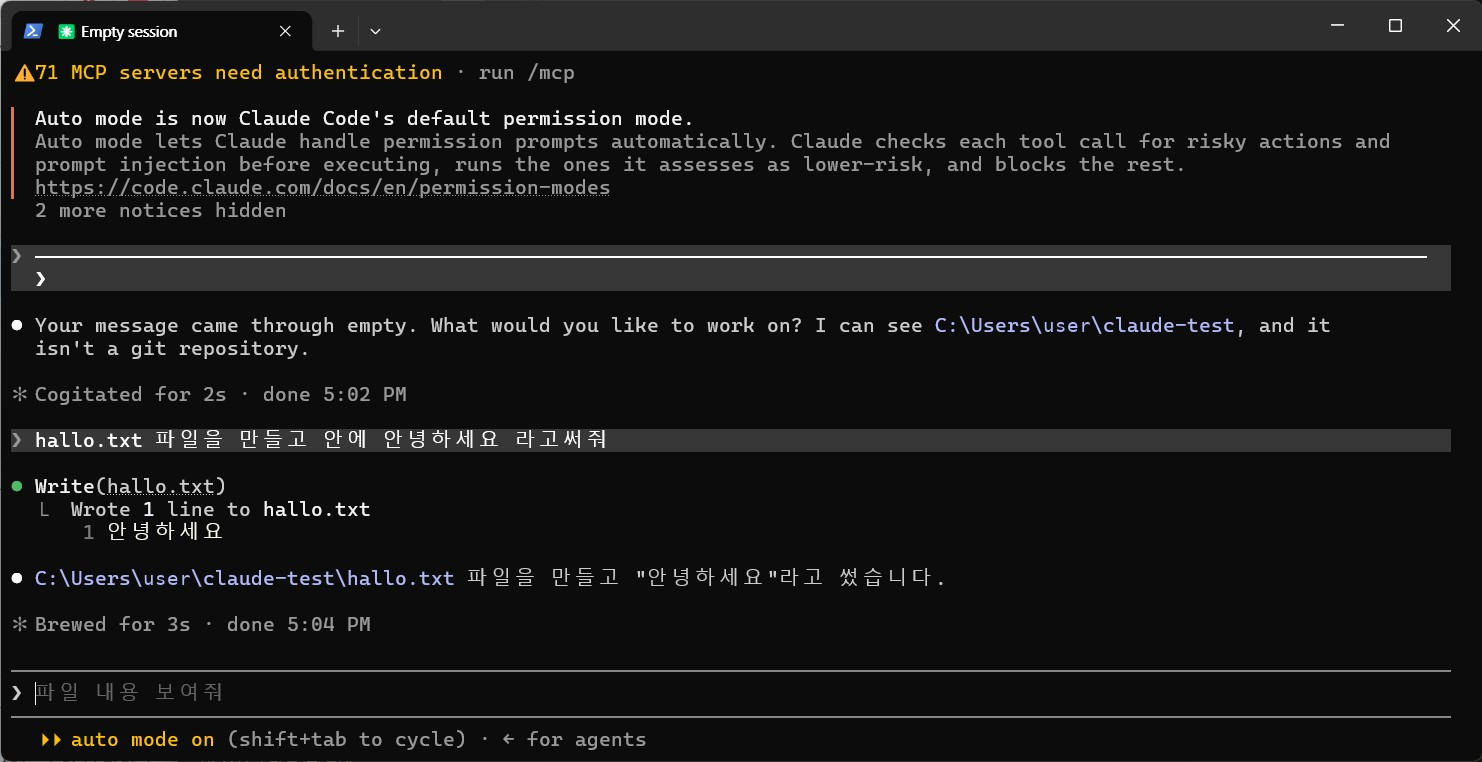
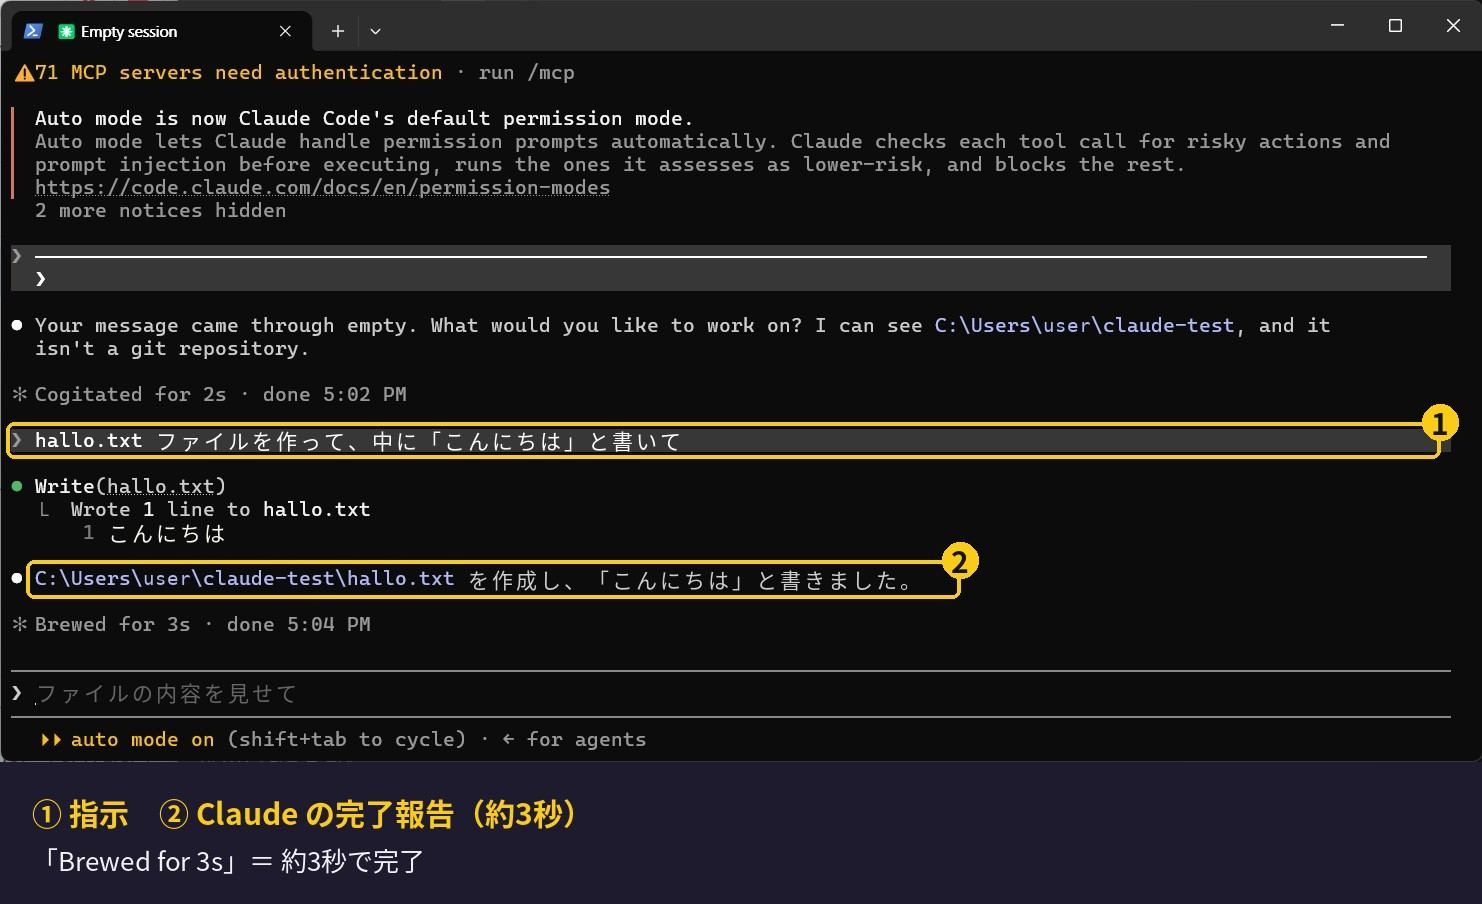
ccguide-ja: Japanese-annotated screenshots, localize Korean text in images
Claude-Session: https://claude.ai/code/session_0114J8oCXExe9ebHvH1UevYH

diff --git a/_source/src/blog/ccguide-ja.html b/_source/src/blog/ccguide-ja.html
@@ -134,7 +134,7 @@
 <p>正しく入っていれば、バージョン番号のあとに <code>(Claude Code)</code> と表示されます。</p>
 <h3>「running scripts is disabled」と出た場合</h3>
 <p>実際に Windows の PowerShell で <code>claude --version</code> を実行したところ、バージョンではなく赤いエラーが出ました。</p>
-<p><img loading="lazy" width="1482" height="345" alt="PowerShell で claude --version を実行したときの実行ポリシーのエラー画面" src="/claude-code-tsukaikata-ps1-error-ja.jpg" /></p>
+<p><img loading="lazy" width="1482" height="487" alt="PowerShell で claude --version を実行したときの実行ポリシーのエラー画面" src="/claude-code-tsukaikata-ps1-error-ja.jpg" /></p>
 <p>エラーの中に <code>npm\claude.ps1 cannot be loaded because running scripts is disabled on this system</code> とあります。このパソコンには npm で Claude Code が入っていました。公式のトラブルシューティングによると、npm は各コマンドの起動用に <code>.ps1</code> というスクリプトファイルを作り、PowerShell の<strong>実行ポリシー</strong>がそのスクリプトの実行を止めているのが原因です。PowerShell のインストーラー（<code>irm ... | iex</code>）はスクリプトファイルを使わないので、この影響を受けません。</p>
 <p>公式ドキュメントが挙げている直し方は3つです。</p>
 <ol>
@@ -147,7 +147,7 @@
 <li><strong>npm ではなく PowerShell のインストーラーで入れ直す</strong>。スクリプトではなくバイナリが入ります。</li>
 </ol>
 <p>今回は設定を変えずに済む2つめの方法で確認しました。<code>claude.cmd --version</code> と打つと、バージョンが表示されました。</p>
-<p><img loading="lazy" width="1482" height="215" alt="claude.cmd --version で 2.1.295 (Claude Code) と表示された画面" src="/claude-code-tsukaikata-version-ja.jpg" /></p>
+<p><img loading="lazy" width="1482" height="357" alt="claude.cmd --version で 2.1.295 (Claude Code) と表示された画面" src="/claude-code-tsukaikata-version-ja.jpg" /></p>
 <p>表示は <code>2.1.295 (Claude Code)</code> でした。インストールの状態をもっと詳しく調べたいときは、<code>claude doctor</code> を実行すると、インストールの状態、設定ファイルのエラー、修正案などが表示されます。</p>
 <h3>「claude が見つからない」と出た場合</h3>
 <p><code>command not found: claude</code> や <code>'claude' is not recognized</code> と表示されるのは、インストール先のフォルダがまだ PATH に入っていないためです。まずターミナルを閉じて開き直し、それでも直らなければ公式の「Troubleshoot installation and login」の「Fix your PATH」の手順に従います。</p>
@@ -157,26 +157,26 @@
 <pre><code class="language-powershell">mkdir claude-test
 cd claude-test
 </code></pre>
-<p><img loading="lazy" width="1482" height="420" alt="PowerShell で mkdir と cd を使って claude-test フォルダを作り移動した画面" src="/claude-code-tsukaikata-mkdir-ja.jpg" /></p>
+<p><img loading="lazy" width="1482" height="522" alt="PowerShell で mkdir と cd を使って claude-test フォルダを作り移動した画面" src="/claude-code-tsukaikata-mkdir-ja.jpg" /></p>
 <p>実際の開発では、作業したいプロジェクトのフォルダに <code>cd</code> で移動してから起動します。</p>
 <h3>claude で起動し、テーマを選ぶ</h3>
 <p>フォルダの中で <code>claude</code>（npm 版で実行ポリシーのエラーが出る場合は <code>claude.cmd</code>）と入力すると、Claude Code が起動します。初回は文字の配色（テーマ）を選ぶ画面が出ます。</p>
-<p><img loading="lazy" width="1482" height="762" alt="Claude Code の初回起動時に表示されるテーマ選択画面" src="/claude-code-tsukaikata-theme-ja.jpg" /></p>
+<p><img loading="lazy" width="1482" height="904" alt="Claude Code の初回起動時に表示されるテーマ選択画面" src="/claude-code-tsukaikata-theme-ja.jpg" /></p>
 <p>選択肢は Auto（ターミナルに合わせる）、Dark mode、Light mode と、それぞれの色覚多様性対応版、ANSI カラーのみの版です。画面の下に差分表示の見本が出るので、読みやすいものを矢印キーで選んで Enter を押します。あとから <code>/theme</code> で変更できます。</p>
 <h3>ログインする</h3>
 <p>続いてログインです。公式ドキュメントでは、初回起動時にブラウザが開き、案内に従って Claude のアカウントで認証する流れになっています。一度ログインすれば認証情報が保存され、次回からは不要です。アカウントを切り替えたいときは、起動中の画面で <code>/login</code> と入力します。</p>
 <p>今回のパソコンでは、すでに Claude のデスクトップアプリを使っている状態で、ログインはそのまますぐにできました。</p>
 <h3>起動画面の見方</h3>
 <p>ログインが終わると、次のような画面になります。</p>
-<p><img loading="lazy" width="1482" height="442" alt="Claude Code の起動画面。バージョン、モデル、作業フォルダ、auto mode の表示" src="/claude-code-tsukaikata-start-ja.jpg" /></p>
+<p><img loading="lazy" width="1482" height="584" alt="Claude Code の起動画面。バージョン、モデル、作業フォルダ、auto mode の表示" src="/claude-code-tsukaikata-start-ja.jpg" /></p>
 <p>左上に、Claude Code のバージョン（v2.1.295）、使っているモデルとプラン（Opus 5.5 · Claude Max）、作業フォルダ（~\claude-test）が表示されています。いちばん下の <code>❯</code> の行が入力欄です。</p>
 <p>その上の黄色い行は、使っている MCP サーバー（外部ツールとの接続）の認証を求める案内で、<code>/mcp</code> から設定できます。MCP を使っていなければ表示されません。</p>
 <p>画面のいちばん下にある <strong>auto mode on</strong> は、権限モードの表示です。これについては後の章で説明します。</p>
 <h2>最初の指示を出してみる</h2>
-<p>入力欄に、やってほしいことを日本語でそのまま書いて Enter を押します。今回は練習として、ファイルを1つ作ってもらいました（画面は韓国語での指示ですが、日本語でも同じように動きます）。</p>
-<p><img loading="lazy" width="1482" height="762" alt="Claude Code に hallo.txt を作るよう頼み、3秒で書き込みが終わった画面" src="/claude-code-tsukaikata-hello-ja.jpg" /></p>
-<p>1回目は何も入力しないまま Enter を押してしまい、Claude から「メッセージが空でした。何をしましょうか」という返事と、今のフォルダが Git のリポジトリではないことが返ってきました。そこで「hallo.txt というファイルを作って、中に『안녕하세요（こんにちは）』と書いて」と頼むと、<code>Write(hallo.txt)</code> と表示されてファイルが作られ、作業時間は「Brewed for 3s」、つまり約3秒でした。</p>
-<p>Claude は指示に書いたとおりの名前でファイルを作り、完了の報告も指示と同じ韓国語で返してきました。名前や場所はそのまま使われるので、正確に書くのが大事です。</p>
+<p>入力欄に、やってほしいことを日本語でそのまま書いて Enter を押します。今回は練習として、ファイルを1つ作ってもらいました。</p>
+<p><img loading="lazy" width="1482" height="904" alt="Claude Code に hallo.txt を作るよう頼み、3秒で書き込みが終わった画面" src="/claude-code-tsukaikata-hello-ja.jpg" /></p>
+<p>1回目は何も入力しないまま Enter を押してしまい、Claude から「メッセージが空でした。何をしましょうか」という返事と、今のフォルダが Git のリポジトリではないことが返ってきました。そこで「hallo.txt というファイルを作って、中に『こんにちは』と書いて」という内容を頼むと、<code>Write(hallo.txt)</code> と表示されてファイルが作られ、作業時間は「Brewed for 3s」、つまり約3秒でした。</p>
+<p>Claude は指示に書いたとおりの名前でファイルを作り、完了の報告も指示と同じ言語で返してきました。名前や場所はそのまま使われるので、正確に書くのが大事です。</p>
 <h3>慣れてきたら試したい頼み方</h3>
 <p>公式のクイックスタートでは、実際のプロジェクトで次のような指示を試すよう勧めています（日本語に置き換えています）。</p>
 <ul>
@@ -336,7 +336,7 @@ cd claude-test
 <p>本格的にプロジェクトで使うなら、最初に <code>/init</code> を実行しておくと便利です。Claude がプロジェクトを調べて、構成やビルド方法などをまとめた <code>CLAUDE.md</code> を作ります。このファイルは毎回の会話の最初に読み込まれるので、同じ説明を何度も繰り返さずに済みます。</p>
 <h2>使用量を確認する（/usage）</h2>
 <p>サブスクリプションで使う場合、気になるのが使用量の上限です。Claude Code の中で <code>/usage</code> と入力すると、設定画面の Usage タブが開きます。</p>
-<p><img loading="lazy" width="1482" height="762" alt="Claude Code の /usage 画面。現在のセッション24%、今週45%、Fable 0%" src="/claude-code-tsukaikata-usage-ja.jpg" /></p>
+<p><img loading="lazy" width="1482" height="904" alt="Claude Code の /usage 画面。現在のセッション24%、今週45%、Fable 0%" src="/claude-code-tsukaikata-usage-ja.jpg" /></p>
 <p>この画面では、次の3つのメーターが確認できました。</p>
 <ul>
 <li><strong>Current session（現在のセッション）</strong>：24%。5時間ごとにリセットされる上限です。</li>
@@ -392,7 +392,7 @@ cd claude-test
 <p><strong>Claude Code は無料で使えますか？</strong>
 使えません。公式ドキュメントでは、Claude の無料プランには Claude Code が含まれないと明記されています。Pro 以上のプランか、Claude Console（API の従量課金）のアカウントが必要です。</p>
 <p><strong>Claude Code は日本語で使えますか？</strong>
-はい。指示は日本語でそのまま書けます。画面のメニューや表示は英語ですが、今回のテストでは韓国語の指示に韓国語で返事が来たように、Claude は指示と同じ言語で答えます。</p>
+はい。指示は日本語でそのまま書けます。画面のメニューや表示は英語ですが、Claude は指示と同じ言語で答えます。</p>
 <p><strong>Windows でも WSL は必要ですか？</strong>
 必要ありません。PowerShell か CMD からそのままインストールして使えます。Linux のツールを使いたい場合や、サンドボックス機能を使いたい場合は WSL 2 を選びます。</p>
 <p><strong><code>claude</code> と打つと「running scripts is disabled」と出ます。</strong>

diff --git a/ja/blog/claude-code-tsukaikata.html b/ja/blog/claude-code-tsukaikata.html
@@ -237,7 +237,7 @@
 <p>正しく入っていれば、バージョン番号のあとに <code>(Claude Code)</code> と表示されます。</p>
 <h3>「running scripts is disabled」と出た場合</h3>
 <p>実際に Windows の PowerShell で <code>claude --version</code> を実行したところ、バージョンではなく赤いエラーが出ました。</p>
-<p><img loading="lazy" width="1482" height="345" alt="PowerShell で claude --version を実行したときの実行ポリシーのエラー画面" src="/claude-code-tsukaikata-ps1-error-ja.jpg" /></p>
+<p><img loading="lazy" width="1482" height="487" alt="PowerShell で claude --version を実行したときの実行ポリシーのエラー画面" src="/claude-code-tsukaikata-ps1-error-ja.jpg" /></p>
 <p>エラーの中に <code>npm\claude.ps1 cannot be loaded because running scripts is disabled on this system</code> とあります。このパソコンには npm で Claude Code が入っていました。公式のトラブルシューティングによると、npm は各コマンドの起動用に <code>.ps1</code> というスクリプトファイルを作り、PowerShell の<strong>実行ポリシー</strong>がそのスクリプトの実行を止めているのが原因です。PowerShell のインストーラー（<code>irm ... | iex</code>）はスクリプトファイルを使わないので、この影響を受けません。</p>
 <p>公式ドキュメントが挙げている直し方は3つです。</p>
 <ol>
@@ -250,7 +250,7 @@
 <li><strong>npm ではなく PowerShell のインストーラーで入れ直す</strong>。スクリプトではなくバイナリが入ります。</li>
 </ol>
 <p>今回は設定を変えずに済む2つめの方法で確認しました。<code>claude.cmd --version</code> と打つと、バージョンが表示されました。</p>
-<p><img loading="lazy" width="1482" height="215" alt="claude.cmd --version で 2.1.295 (Claude Code) と表示された画面" src="/claude-code-tsukaikata-version-ja.jpg" /></p>
+<p><img loading="lazy" width="1482" height="357" alt="claude.cmd --version で 2.1.295 (Claude Code) と表示された画面" src="/claude-code-tsukaikata-version-ja.jpg" /></p>
 <p>表示は <code>2.1.295 (Claude Code)</code> でした。インストールの状態をもっと詳しく調べたいときは、<code>claude doctor</code> を実行すると、インストールの状態、設定ファイルのエラー、修正案などが表示されます。</p>
 <h3>「claude が見つからない」と出た場合</h3>
 <p><code>command not found: claude</code> や <code>'claude' is not recognized</code> と表示されるのは、インストール先のフォルダがまだ PATH に入っていないためです。まずターミナルを閉じて開き直し、それでも直らなければ公式の「Troubleshoot installation and login」の「Fix your PATH」の手順に従います。</p>
@@ -260,26 +260,26 @@
 <pre><code class="language-powershell">mkdir claude-test
 cd claude-test
 </code></pre>
-<p><img loading="lazy" width="1482" height="420" alt="PowerShell で mkdir と cd を使って claude-test フォルダを作り移動した画面" src="/claude-code-tsukaikata-mkdir-ja.jpg" /></p>
+<p><img loading="lazy" width="1482" height="522" alt="PowerShell で mkdir と cd を使って claude-test フォルダを作り移動した画面" src="/claude-code-tsukaikata-mkdir-ja.jpg" /></p>
 <p>実際の開発では、作業したいプロジェクトのフォルダに <code>cd</code> で移動してから起動します。</p>
 <h3>claude で起動し、テーマを選ぶ</h3>
 <p>フォルダの中で <code>claude</code>（npm 版で実行ポリシーのエラーが出る場合は <code>claude.cmd</code>）と入力すると、Claude Code が起動します。初回は文字の配色（テーマ）を選ぶ画面が出ます。</p>
-<p><img loading="lazy" width="1482" height="762" alt="Claude Code の初回起動時に表示されるテーマ選択画面" src="/claude-code-tsukaikata-theme-ja.jpg" /></p>
+<p><img loading="lazy" width="1482" height="904" alt="Claude Code の初回起動時に表示されるテーマ選択画面" src="/claude-code-tsukaikata-theme-ja.jpg" /></p>
 <p>選択肢は Auto（ターミナルに合わせる）、Dark mode、Light mode と、それぞれの色覚多様性対応版、ANSI カラーのみの版です。画面の下に差分表示の見本が出るので、読みやすいものを矢印キーで選んで Enter を押します。あとから <code>/theme</code> で変更できます。</p>
 <h3>ログインする</h3>
 <p>続いてログインです。公式ドキュメントでは、初回起動時にブラウザが開き、案内に従って Claude のアカウントで認証する流れになっています。一度ログインすれば認証情報が保存され、次回からは不要です。アカウントを切り替えたいときは、起動中の画面で <code>/login</code> と入力します。</p>
 <p>今回のパソコンでは、すでに Claude のデスクトップアプリを使っている状態で、ログインはそのまますぐにできました。</p>
 <h3>起動画面の見方</h3>
 <p>ログインが終わると、次のような画面になります。</p>
-<p><img loading="lazy" width="1482" height="442" alt="Claude Code の起動画面。バージョン、モデル、作業フォルダ、auto mode の表示" src="/claude-code-tsukaikata-start-ja.jpg" /></p>
+<p><img loading="lazy" width="1482" height="584" alt="Claude Code の起動画面。バージョン、モデル、作業フォルダ、auto mode の表示" src="/claude-code-tsukaikata-start-ja.jpg" /></p>
 <p>左上に、Claude Code のバージョン（v2.1.295）、使っているモデルとプラン（Opus 5.5 · Claude Max）、作業フォルダ（~\claude-test）が表示されています。いちばん下の <code>❯</code> の行が入力欄です。</p>
 <p>その上の黄色い行は、使っている MCP サーバー（外部ツールとの接続）の認証を求める案内で、<code>/mcp</code> から設定できます。MCP を使っていなければ表示されません。</p>
 <p>画面のいちばん下にある <strong>auto mode on</strong> は、権限モードの表示です。これについては後の章で説明します。</p>
 <h2>最初の指示を出してみる</h2>
-<p>入力欄に、やってほしいことを日本語でそのまま書いて Enter を押します。今回は練習として、ファイルを1つ作ってもらいました（画面は韓国語での指示ですが、日本語でも同じように動きます）。</p>
-<p><img loading="lazy" width="1482" height="762" alt="Claude Code に hallo.txt を作るよう頼み、3秒で書き込みが終わった画面" src="/claude-code-tsukaikata-hello-ja.jpg" /></p>
-<p>1回目は何も入力しないまま Enter を押してしまい、Claude から「メッセージが空でした。何をしましょうか」という返事と、今のフォルダが Git のリポジトリではないことが返ってきました。そこで「hallo.txt というファイルを作って、中に『안녕하세요（こんにちは）』と書いて」と頼むと、<code>Write(hallo.txt)</code> と表示されてファイルが作られ、作業時間は「Brewed for 3s」、つまり約3秒でした。</p>
-<p>Claude は指示に書いたとおりの名前でファイルを作り、完了の報告も指示と同じ韓国語で返してきました。名前や場所はそのまま使われるので、正確に書くのが大事です。</p>
+<p>入力欄に、やってほしいことを日本語でそのまま書いて Enter を押します。今回は練習として、ファイルを1つ作ってもらいました。</p>
+<p><img loading="lazy" width="1482" height="904" alt="Claude Code に hallo.txt を作るよう頼み、3秒で書き込みが終わった画面" src="/claude-code-tsukaikata-hello-ja.jpg" /></p>
+<p>1回目は何も入力しないまま Enter を押してしまい、Claude から「メッセージが空でした。何をしましょうか」という返事と、今のフォルダが Git のリポジトリではないことが返ってきました。そこで「hallo.txt というファイルを作って、中に『こんにちは』と書いて」という内容を頼むと、<code>Write(hallo.txt)</code> と表示されてファイルが作られ、作業時間は「Brewed for 3s」、つまり約3秒でした。</p>
+<p>Claude は指示に書いたとおりの名前でファイルを作り、完了の報告も指示と同じ言語で返してきました。名前や場所はそのまま使われるので、正確に書くのが大事です。</p>
 <h3>慣れてきたら試したい頼み方</h3>
 <p>公式のクイックスタートでは、実際のプロジェクトで次のような指示を試すよう勧めています（日本語に置き換えています）。</p>
 <ul>
@@ -439,7 +439,7 @@ cd claude-test
 <p>本格的にプロジェクトで使うなら、最初に <code>/init</code> を実行しておくと便利です。Claude がプロジェクトを調べて、構成やビルド方法などをまとめた <code>CLAUDE.md</code> を作ります。このファイルは毎回の会話の最初に読み込まれるので、同じ説明を何度も繰り返さずに済みます。</p>
 <h2>使用量を確認する（/usage）</h2>
 <p>サブスクリプションで使う場合、気になるのが使用量の上限です。Claude Code の中で <code>/usage</code> と入力すると、設定画面の Usage タブが開きます。</p>
-<p><img loading="lazy" width="1482" height="762" alt="Claude Code の /usage 画面。現在のセッション24%、今週45%、Fable 0%" src="/claude-code-tsukaikata-usage-ja.jpg" /></p>
+<p><img loading="lazy" width="1482" height="904" alt="Claude Code の /usage 画面。現在のセッション24%、今週45%、Fable 0%" src="/claude-code-tsukaikata-usage-ja.jpg" /></p>
 <p>この画面では、次の3つのメーターが確認できました。</p>
 <ul>
 <li><strong>Current session（現在のセッション）</strong>：24%。5時間ごとにリセットされる上限です。</li>
@@ -495,7 +495,7 @@ cd claude-test
 <p><strong>Claude Code は無料で使えますか？</strong>
 使えません。公式ドキュメントでは、Claude の無料プランには Claude Code が含まれないと明記されています。Pro 以上のプランか、Claude Console（API の従量課金）のアカウントが必要です。</p>
 <p><strong>Claude Code は日本語で使えますか？</strong>
-はい。指示は日本語でそのまま書けます。画面のメニューや表示は英語ですが、今回のテストでは韓国語の指示に韓国語で返事が来たように、Claude は指示と同じ言語で答えます。</p>
+はい。指示は日本語でそのまま書けます。画面のメニューや表示は英語ですが、Claude は指示と同じ言語で答えます。</p>
 <p><strong>Windows でも WSL は必要ですか？</strong>
 必要ありません。PowerShell か CMD からそのままインストールして使えます。Linux のツールを使いたい場合や、サンドボックス機能を使いたい場合は WSL 2 を選びます。</p>
 <p><strong><code>claude</code> と打つと「running scripts is disabled」と出ます。</strong>
